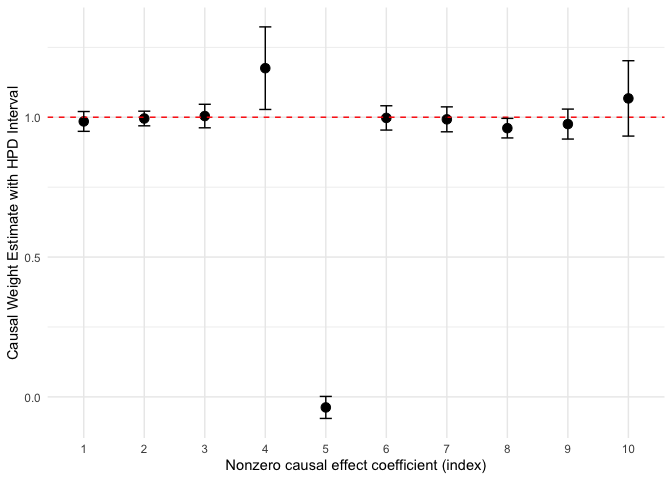
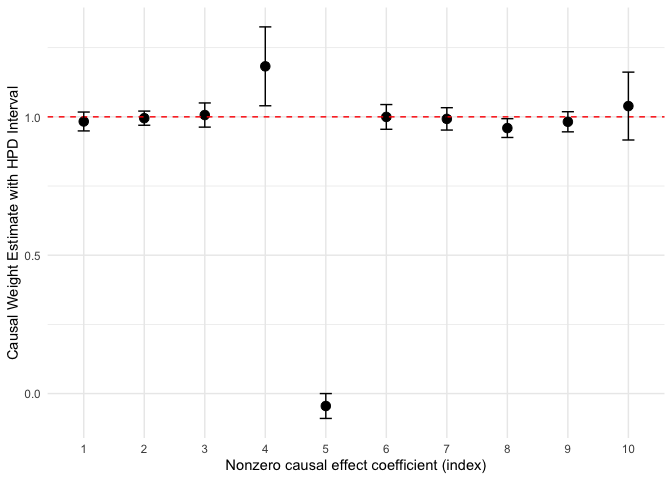
Big readme and code update

diff --git a/src/Causal_disc_functions.cpp b/src/Causal_disc_functions.cpp
@@ -234,7 +234,7 @@ double log_integral_result_calculator_cpp(arma::mat Adjacency_matrix_enter, arma
   }
 }
 
-arma::vec Metropolis_hastings_portions_cpp(arma::mat data_matrix, arma::mat Adjacency_matrix_enter, arma::mat Causal_effect_matrix_enter, arma::mat Z_matrix_enter, arma::mat mu_mat, arma::mat tao_mat, double N, double M, double gamma_1, double gamma_result){
+arma::vec Metropolis_hastings_portions_original_cpp(arma::mat data_matrix, arma::mat Adjacency_matrix_enter, arma::mat Causal_effect_matrix_enter, arma::mat Z_matrix_enter, arma::mat mu_mat, arma::mat tao_mat, double N, double M, double gamma_1, double gamma_result){
   arma::vec final_metropolis_vec = arma::zeros<arma::vec>(3);
 
   arma::mat I = arma::eye<arma::mat>(Causal_effect_matrix_enter.n_rows, Causal_effect_matrix_enter.n_cols);
@@ -299,7 +299,74 @@ arma::vec Metropolis_hastings_portions_cpp(arma::mat data_matrix, arma::mat Adja
   return final_metropolis_vec;
 }
 
+arma::vec Metropolis_hastings_portions_cpp(arma::mat data_matrix, arma::mat Adjacency_matrix_enter, arma::mat Causal_effect_matrix_enter, arma::mat Z_matrix_enter, arma::mat mu_mat, arma::mat tao_mat, double N, double M, double gamma_1, double gamma_result){
+  //const arma::uword N = data_matrix.n_rows;
+  const arma::uword p = Causal_effect_matrix_enter.n_cols;
 
+  arma::vec out(3, arma::fill::zeros);
+
+  arma::vec final_metropolis_vec = arma::zeros<arma::vec>(3);
+
+  arma::mat IminusB = arma::eye<arma::mat>(p, p) - Causal_effect_matrix_enter;
+  double log_det_IminusB;
+  double sign;
+  arma::log_det(log_det_IminusB, sign, IminusB);
+
+  const double const_term = -0.5 * p * std::log(2.0 * M);
+
+  arma::vec mu_vec  = arma::vectorise(mu_mat.t());   // length p * M
+  arma::vec tao_vec = arma::vectorise(tao_mat.t());
+
+  arma::vec result_vec(N);
+
+  arma::uvec base_idx = N * arma::regspace<arma::uvec>(0, p - 1);
+
+  for(arma::uword i = 0; i < N; i++){
+    arma::uvec idx = i + base_idx;
+
+    arma::mat Z_assignments_sample = Z_matrix_enter.rows(idx);
+    arma::vec Z_vec = arma::vectorise(Z_assignments_sample.t());
+    arma::uvec which1 = arma::find(Z_vec == 1);
+
+
+    arma::vec mu_i  = mu_vec.elem(which1);   // length p
+    arma::vec tao_i = tao_vec.elem(which1);  // length p
+
+    arma::colvec y_i = data_matrix.row(i).t();
+    arma::colvec eps_i = IminusB * y_i;
+
+    arma::vec diff = eps_i - mu_i;
+    double quad     = arma::sum( (diff % diff) / tao_i );
+    double log_tau  = arma::sum( arma::log(tao_i) );
+
+    result_vec[i] = const_term
+    - 0.5 * (log_tau + quad)
+      + log_det_IminusB;
+  }
+
+  double first_part = arma::accu(result_vec);
+  out[0] = first_part;
+
+
+  arma::uvec nz_idx = arma::find(Causal_effect_matrix_enter != 0.0);
+  arma::vec  B_nz   = Causal_effect_matrix_enter.elem(nz_idx);
+  out[1] = arma::sum(fast_dnorm_log_vec(B_nz, 0.0, std::sqrt(gamma_1)));
+
+  arma::vec adj_all = arma::vectorise(Adjacency_matrix_enter);  // contains 0s and 1s
+  arma::uword count1 = arma::accu(adj_all);
+  arma::uword total = adj_all.n_elem;
+  arma::uword count0 = total - count1;
+
+  // 4) log‐pmf sum for Bernoulli(gamma_result):
+  //    count1 * log(p) + count0 * log(1-p)
+  double lp = std::log(gamma_result);
+  double lq = std::log(1.0 - gamma_result);
+
+  double third_part = count1 * lp + count0 * lq;
+  out[2] = third_part;
+
+  return out;
+}
 
 
 // [[Rcpp::export]]

diff --git a/README.md b/README.md
@@ -107,7 +107,7 @@ set.seed(21)
 N = 300    # sample size
 num_covariates = 10     # number of features
 M = 2      # number of mixture components
-num_iter = 10000  # number of MCMC iterations
+num_iter = 5000  # number of MCMC iterations
 
 #######################################
 # Hyperparameter setup
@@ -246,7 +246,7 @@ return a non negative scalar distance.
 ``` r
 #############################################
 # Best Graph Structure determined through shd
-############################################
+#############################################
 Adjacency_matrix_shd = select_posterior_graph(Adjacency_matrix_list, dist_type = 'shd')
 Adjacency_matrix_shd
 #>       [,1] [,2] [,3] [,4] [,5] [,6] [,7] [,8] [,9] [,10]
@@ -366,10 +366,10 @@ uncertainty quantification for $\gamma$ at a 95% level.
 gamma_posterior_summary = summary_posterior_vec(gamma_list, 0.95)
 gamma_posterior_summary$credible_interval
 #>       2.5%      97.5% 
-#> 0.05173893 0.18084576
+#> 0.05348228 0.18098877
 gamma_posterior_summary$hpd_interval[,1]
 #>      lower      upper 
-#> 0.04596706 0.17267475
+#> 0.04987347 0.17585404
 ```
 
 Matrix valued parameters, such as the causal effect matrix $B$ or the
@@ -469,7 +469,7 @@ library(cyclinbayes)
 N = 250 # Sample size for the test data
 num_covariates = 7 # Number of features for test data
 M = 2 # Number of finite clusters for mixed normal in likelihood
-num_iter = 10000 # Number of iterations MCMC runs
+num_iter = 5000 # Number of iterations MCMC runs
 
 #######################################
 # Hyperparameter setup
@@ -680,12 +680,12 @@ gamma_posterior_summary = summary_posterior_vec(gamma_list, 0.95)
 # Print equal tailed credible interval
 gamma_posterior_summary$credible_interval
 #>      2.5%     97.5% 
-#> 0.1234888 0.9263258
+#> 0.1253851 0.9621042
 
 # Print HPD interval (first column corresponds to gamma)
 gamma_posterior_summary$hpd_interval[,1]
 #>     lower     upper 
-#> 0.0972529 0.8496317
+#> 0.1099916 0.9437803
 ```
 
 For the matrix valued outputs, similar to the acyclic case, we can
